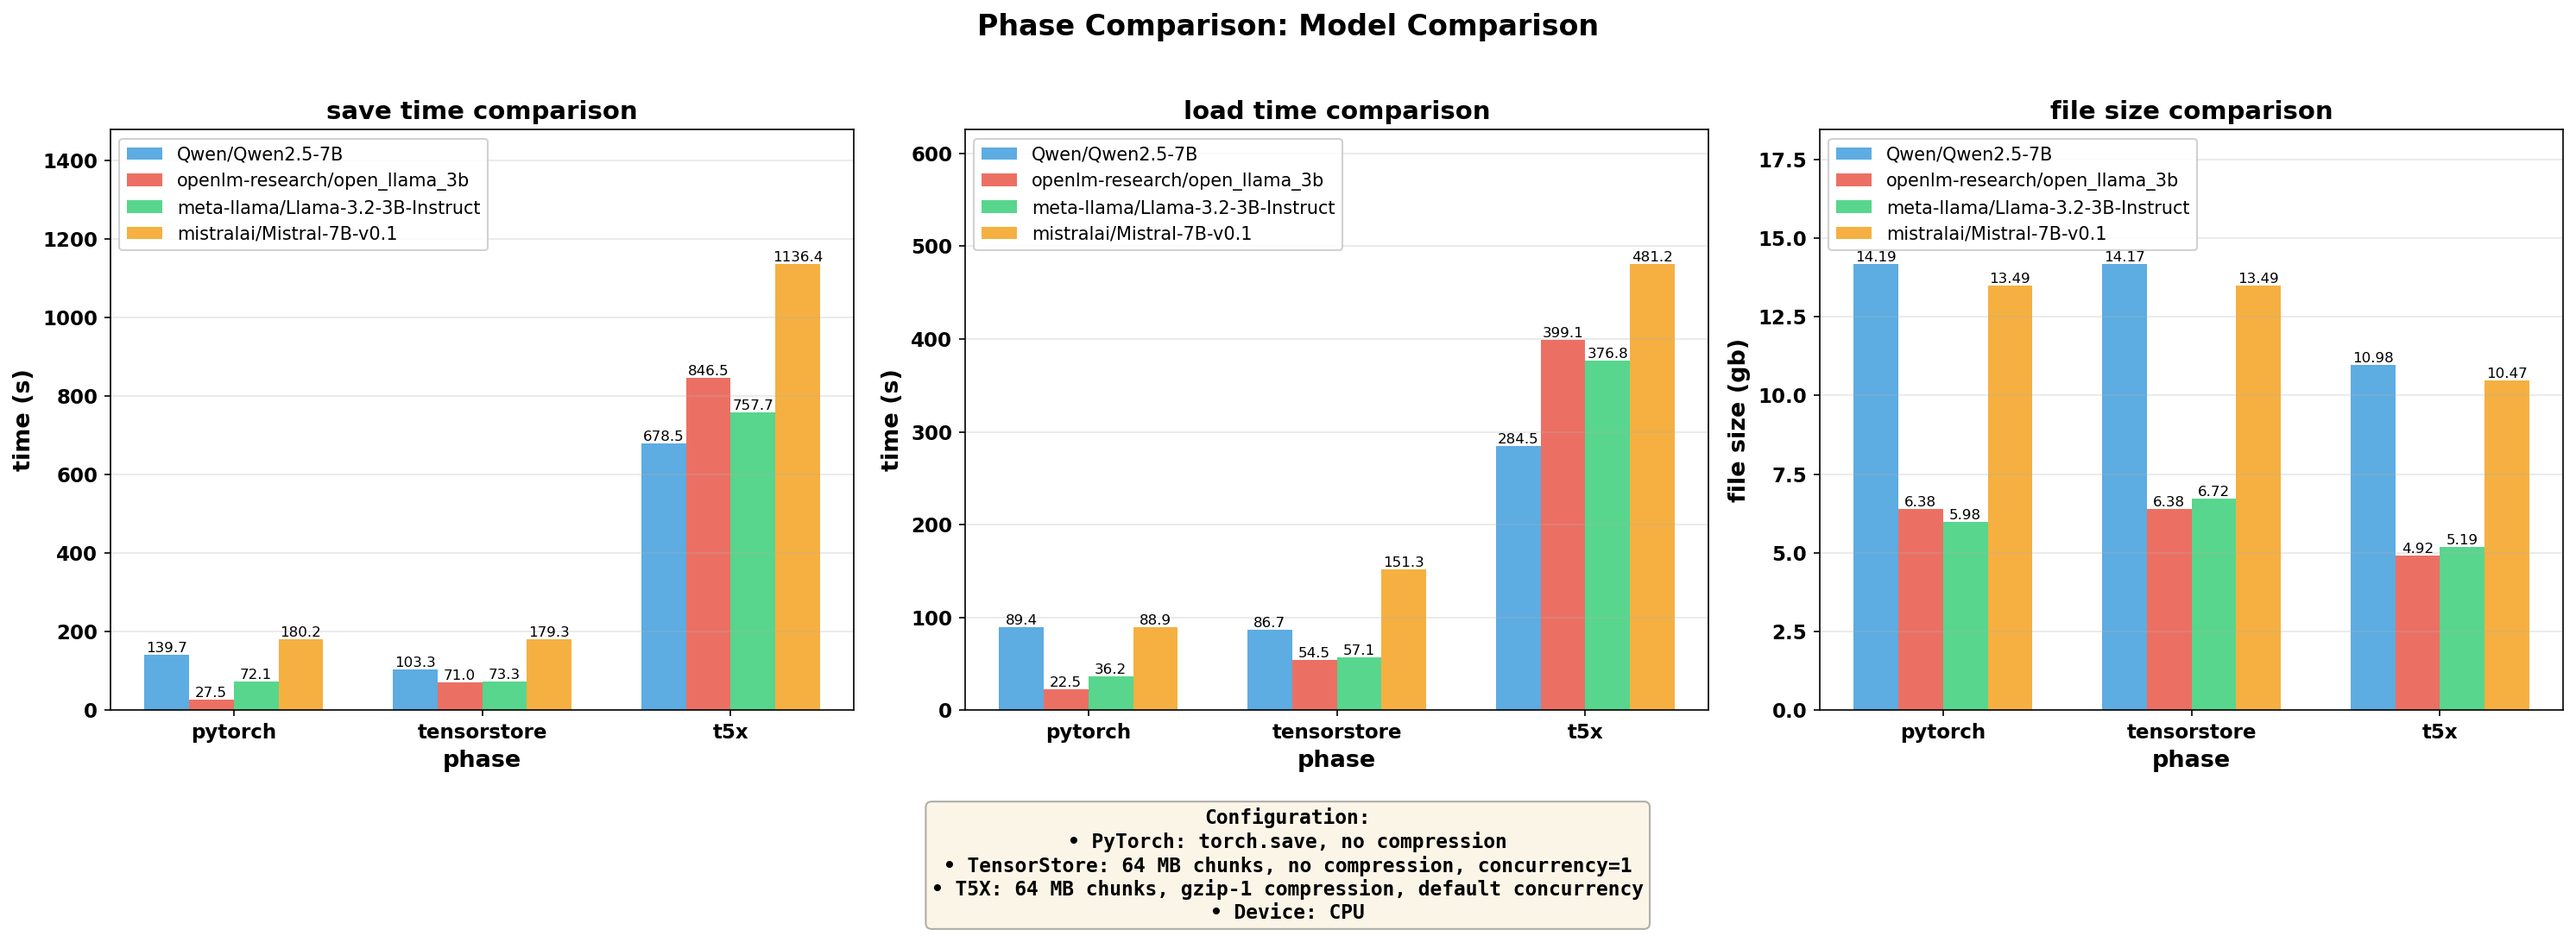
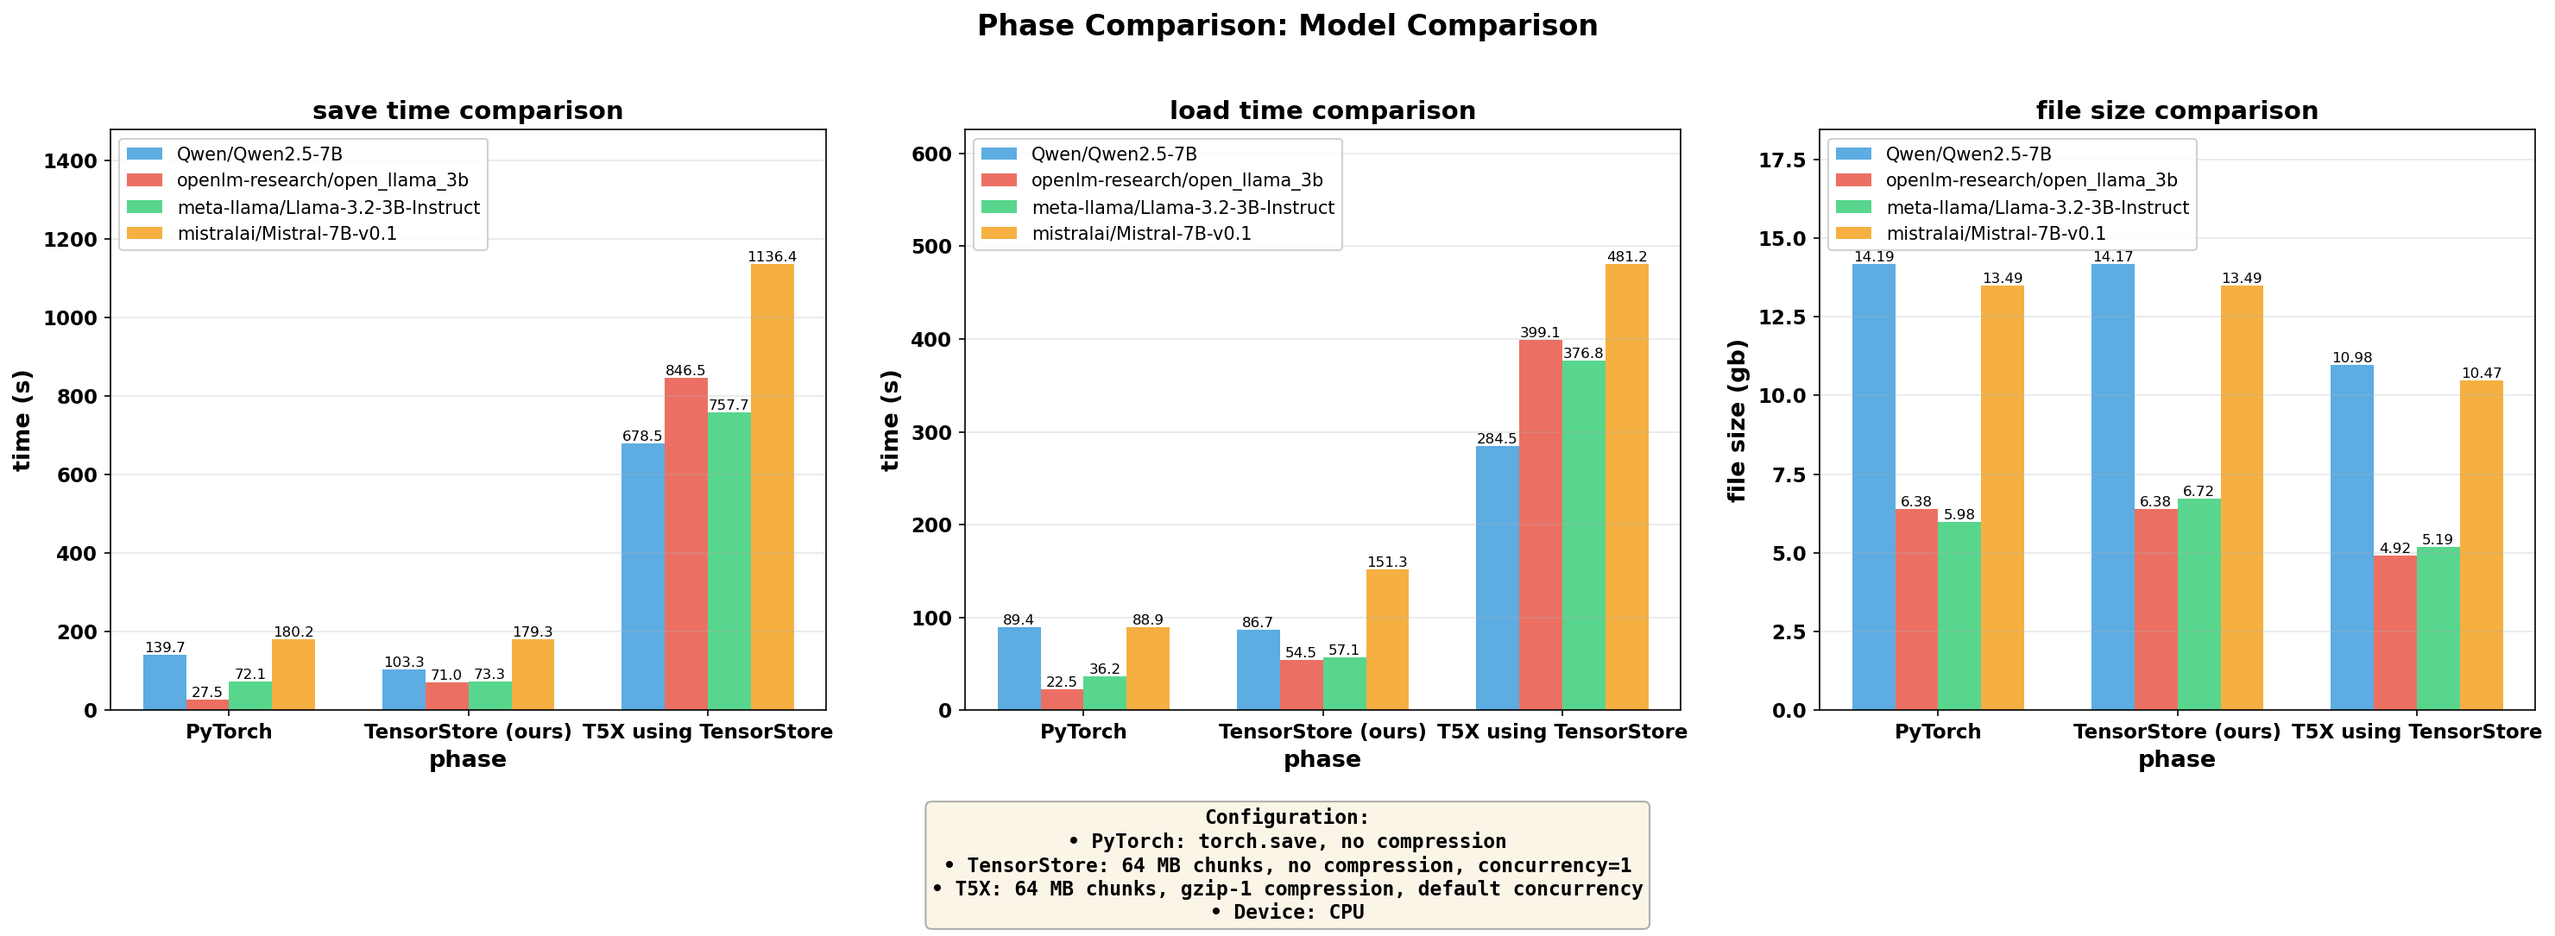
all plots generated

diff --git a/llama-work/cluster/generated_plots/plot2_phase_comparison.py b/llama-work/cluster/generated_plots/plot2_phase_comparison.py
@@ -39,6 +39,7 @@ if len(phase_data) >= 2:
     models = list(phase_data.keys())[:4]  # take up to 4 models
     model_colors = ['#3498db', '#e74c3c', '#2ecc71', '#f39c12']
     phases = ['pytorch', 'tensorstore', 't5x']
+    phase_labels = ['PyTorch', 'TensorStore (ours)', 'T5X using TensorStore']
     
     # collect data for all models
     all_data = {}
@@ -92,7 +93,7 @@ if len(phase_data) >= 2:
     ax_save.set_xlabel('phase', fontsize=13, fontweight='bold')
     ax_save.set_ylabel('time (s)', fontsize=13, fontweight='bold')
     ax_save.set_xticks(x_pos)
-    ax_save.set_xticklabels(phases, fontsize=11, fontweight='bold')
+    ax_save.set_xticklabels(phase_labels, fontsize=11, fontweight='bold')
     ax_save.tick_params(axis='y', labelsize=11)
     # format y-axis to show actual values without scientific notation
     ax_save.ticklabel_format(style='plain', axis='y')
@@ -123,7 +124,7 @@ if len(phase_data) >= 2:
     ax_load.set_xlabel('phase', fontsize=13, fontweight='bold')
     ax_load.set_ylabel('time (s)', fontsize=13, fontweight='bold')
     ax_load.set_xticks(x_pos)
-    ax_load.set_xticklabels(phases, fontsize=11, fontweight='bold')
+    ax_load.set_xticklabels(phase_labels, fontsize=11, fontweight='bold')
     ax_load.tick_params(axis='y', labelsize=11)
     # format y-axis to show actual values without scientific notation
     ax_load.ticklabel_format(style='plain', axis='y')
@@ -154,7 +155,7 @@ if len(phase_data) >= 2:
     ax_size.set_xlabel('phase', fontsize=13, fontweight='bold')
     ax_size.set_ylabel('file size (gb)', fontsize=13, fontweight='bold')
     ax_size.set_xticks(x_pos)
-    ax_size.set_xticklabels(phases, fontsize=11, fontweight='bold')
+    ax_size.set_xticklabels(phase_labels, fontsize=11, fontweight='bold')
     ax_size.tick_params(axis='y', labelsize=11)
     for label in ax_size.get_yticklabels():
         label.set_fontweight('bold')

diff --git a/llama-work/cluster/generated_plots/plot6_chunk_size_comparison.py b/llama-work/cluster/generated_plots/plot6_chunk_size_comparison.py
@@ -43,7 +43,7 @@ for model_id, chunk_types in chunk_data.items():
 # chunk size comparison plot (save time, load time, and file size)
 # ============================================================================
 if len(chunk_data) >= 2:
-    fig, axes = plt.subplots(1, 3, figsize=(20, 7))
+    fig, axes = plt.subplots(1, 3, figsize=(40, 7))
     fig.suptitle('Chunk Size Impact: Model Comparison', fontsize=16, fontweight='bold', y=0.98)
     
     models = list(chunk_data.keys())[:4]  # take up to 4 models
